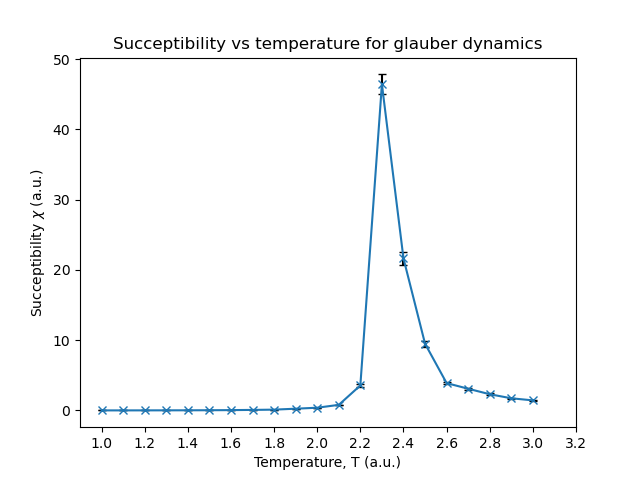
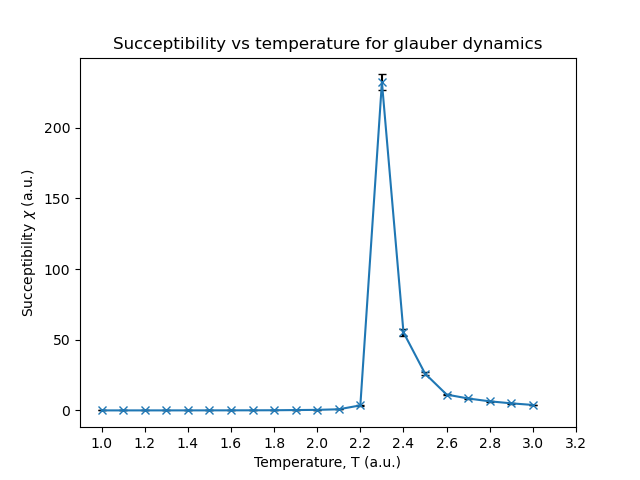
fixed succeptibility values

diff --git a/checkpoint_1/find_obs_average.py b/checkpoint_1/find_obs_average.py
@@ -41,8 +41,8 @@ def calculate_obs(data):
     for i in range(len(data)):
         energy.append(np.average(data[i][0][:]))
         magnetisation.append(np.average(np.absolute(data[i][1][:])))
-        succeptibility.append((np.average(np.absolute(data[i][1][:]**2))\
-            - np.average(np.absolute(data[i][1][:]))**2)/(2500*temperature[i]))
+        succeptibility.append((np.average((data[i][1][:]**2))\
+            - np.average((data[i][1][:]))**2)/(2500*temperature[i]))
         heat_capacity.append((np.average(data[i][0][:]**2)\
             - np.average(data[i][0][:])**2)/(2500*temperature[i]**2))
     return temperature, energy, magnetisation, succeptibility, heat_capacity
@@ -108,8 +108,8 @@ def find_magnetisation_errors(data, raw_resampled_mag, temperature):
     for i in range(raw_resampled_mag.shape[0]):
         for j in range(raw_resampled_mag.shape[1]):
             
-            succeptibility_resampled[i][j]= (np.average(np.absolute(raw_resampled_mag[i][j][:]**2))\
-            - np.average(np.absolute(raw_resampled_mag[i][j][:]))**2)/(2500*temperature[i])
+            succeptibility_resampled[i][j]= (np.average((raw_resampled_mag[i][j][:]**2))\
+            - np.average((raw_resampled_mag[i][j][:]))**2)/(2500*temperature[i])
     # Loop over all kT to calculate errors for magnetisation and succeptibility
     for i in range(raw_resampled_mag.shape[0]):
         chi_averages= []
